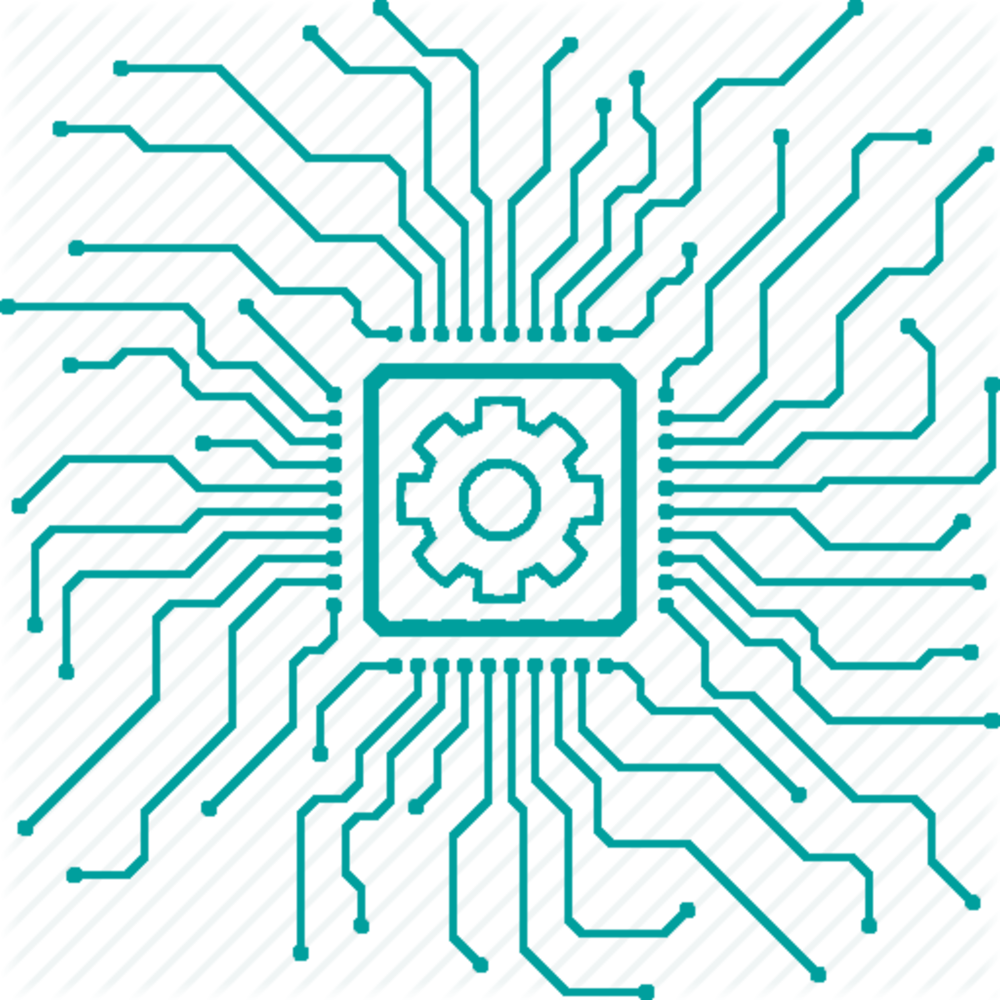
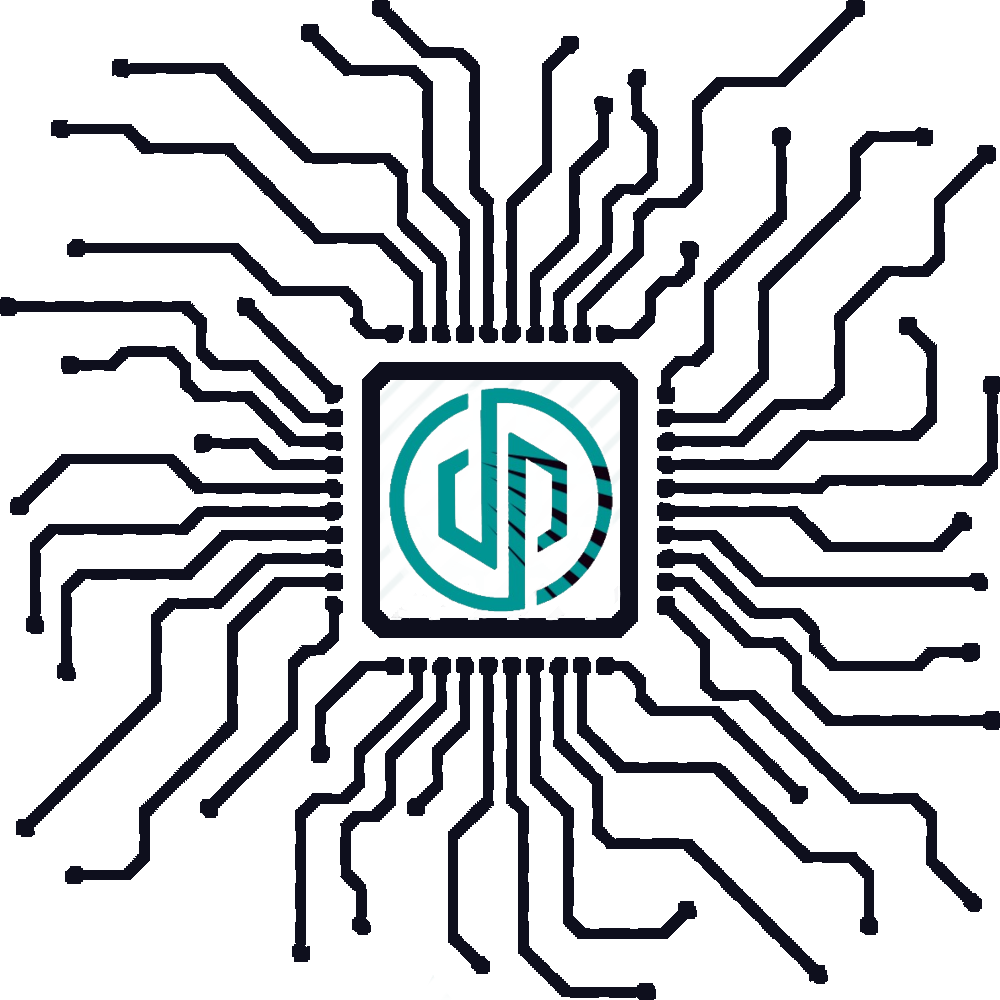
add contact and update home

diff --git a/src/home/Home.js b/src/home/Home.js
@@ -7,6 +7,8 @@ import { FontAwesomeIcon } from "@fortawesome/react-fontawesome";
 import { faArrowLeft } from "@fortawesome/free-solid-svg-icons";
 import NP from "../nosprojet/NP";
 
+import Contact from "../contact/contact";
+
 function Home() {
     const [page, setpage] = useState(0);
 
@@ -21,43 +23,55 @@ function Home() {
                 <>
                     <div>
                         <div>
-                            <NavBar go={custpage}></NavBar>
+                            <NavBar current={page} go={custpage}></NavBar>
                         </div>
                         <div className="introCentre">
                             <FirstContent
-                            next={custpage}
+                                next={custpage}
                             ></FirstContent>
                         </div>
                     </div>
                 </>
-            )
+            );
         case 1://calculator
             return (
                 <>
-                
+
                     <div>
                         <div>
-                            <NavBar go={custpage}></NavBar>
+                            <NavBar curent={page} go={custpage}></NavBar>
                         </div>
-                        <div ><FontAwesomeIcon icon={faArrowLeft} className="back-arrow dont-print" onClick={()=> custpage(0)} title="Home page"></FontAwesomeIcon></div>
+                        <div ><FontAwesomeIcon icon={faArrowLeft} className="back-arrow dont-print" onClick={() => custpage(0)} title="Home page"></FontAwesomeIcon></div>
                         <div className="body-calcul">
                             <Calculator ></Calculator>
                         </div>
                     </div>
                 </>
-            )
+            );
         case 2:
-            return(
+            return (
                 <div>
+                    <div>
+                        <NavBar go={custpage}></NavBar>
+                    </div>
+                    <div ><FontAwesomeIcon icon={faArrowLeft} className="back-arrow dont-print" onClick={() => custpage(0)} title="Home page"></FontAwesomeIcon></div>
+                    <div className="body-calcul">
+                        <NP></NP>
+                    </div>
+                </div>
+            );
+        case 3:
+            return (
                 <div>
-                    <NavBar go={custpage}></NavBar>
-                </div>
-                <div ><FontAwesomeIcon icon={faArrowLeft} className="back-arrow dont-print" onClick={()=> custpage(0)} title="Home page"></FontAwesomeIcon></div>
-                <div className="body-calcul">
-                    <NP></NP>
-                </div>
-            </div>
-            )
+                    <div>
+                        <NavBar curent={page} go={custpage}></NavBar>
+                    </div>
+                    <div ><FontAwesomeIcon icon={faArrowLeft} className="back-arrow dont-print" onClick={() => custpage(0)} title="Home page"></FontAwesomeIcon></div>
+                    <div className="body-calcul">
+                        <Contact></Contact>
+                    </div>
+                </div >
+            );
     }
 
 }

diff --git a/src/contact/contact.js b/src/contact/contact.js
@@ -1,0 +1,50 @@
+import * as React from 'react';
+import "./style.css"
+import { FontAwesomeIcon } from '@fortawesome/react-fontawesome';
+import { faPhone } from '@fortawesome/free-solid-svg-icons';
+import { faEnvelope, faMap } from '@fortawesome/free-regular-svg-icons';
+
+export default function BasicTextFields() {
+  return (
+    <>
+      <div style={{display:"flex",justifyContent:"center",flexWrap:"wrap",margin: "auto",marginTop:"5%"}}>
+        <div>
+          <form className='formcat'>
+            <div>
+              <div class="input-groups">
+                <div class="input-group">
+                  <input required type="text" class="input fit" />
+                  <label class="user-label">Nom</label>
+                </div>
+                <div class="input-group">
+                  <input required type="text" class="input fit" />
+                  <label class="user-label">Prenom</label>
+                </div>
+              </div>
+
+              <div class="input-group">
+                <input required type="text" class="input" />
+                <label class="user-label">Phone</label>
+              </div>
+              <div class="input-group">
+                <input required type="email" name="text" class="input" />
+                <label class="user-label">Email</label>
+              </div>
+              <div class="input-group">
+                <textarea required type="text" name="text" class="input" cols="25" rows="5"></textarea>
+                <label class="user-label">Message</label>
+              </div>
+            </div>
+            <input type="submit" value="Envoyer" className='btn' />
+          </form>
+        </div>
+        <div style={{ color: "#009997",marginLeft:"10%" }}>
+          <h2>Contactez-Nous</h2>
+          <p><FontAwesomeIcon icon={faPhone} style={{ marginRight: "10px" }} /><a href='tel:0761513522' style={{ color: "#fff" ,textDecoration:"none"}}>0761513522</a></p>
+          <p><FontAwesomeIcon icon={faEnvelope} style={{ marginRight: "10px" }} /><a href='mailto:CONTACT@DUP.MA' style={{ color: "#fff" ,textDecoration:"none"}}>CONTACT@DUP.MA</a></p>
+          <p><FontAwesomeIcon icon={faMap} style={{ marginRight: "10px" }} /><a href='https://goo.gl/maps/bKkhkCxefXHvTfgu8' style={{ color: "#fff" ,textDecoration:"none"}} target='blank'>N°18 AV ITTANE Z.I TASSILA DCHEIRA EL JIHADIA AGADIR</a></p>
+        </div>
+      </div>
+    </>
+  );
+}

diff --git a/src/home/nav/Navbar.js b/src/home/nav/Navbar.js
@@ -4,7 +4,7 @@ import "./NavBar.css";
 import MenuIcon from '@mui/icons-material/Menu';
 import { Link } from "react-router-dom";
 function NavBar(props) {
-    const {go}=props;
+    const {current,go}=props;
     const myFunction = () => {
         var x = document.getElementById("myTopnav");
         if (x.className === "topnav") {
@@ -19,12 +19,12 @@ function NavBar(props) {
                 <nav>
                     <div className="topnav" id="myTopnav">
                     <Link onClick={()=>go(0)} >
-                        <img src={logo} alt="dup logo" className="logo" />
+                       {current !== 0 ? <img src={logo} alt="dup logo" className="logo" />:""}
                     </Link>
-                        <Link  className="menu">Contact</Link>
-                        <Link onClick={()=>go(1)} className="menu">Calculateur</Link>
-                        <Link className="menu">A props</Link>
                         <Link onClick={()=>go(2)} className="menu">Nos projet</Link>
+                        <Link onClick={()=>go(3)} className="menu">Contact</Link>
+                        <Link onClick={()=>go(1)} className="menu">Calculateur</Link>
+                        <Link  className="menu">A props</Link>
                         <button className="icon" onClick={myFunction}>
                             <MenuIcon></MenuIcon>
                         </button>

diff --git a/src/contact/style.css b/src/contact/style.css
@@ -1,0 +1,61 @@
+.formcat{
+    width: 200px;
+    display: flex;
+    justify-content: center;
+    flex-wrap: wrap;
+    margin: auto;
+    margin-top: 2%;
+}
+.input-group {
+    position: relative;
+}
+.input-groups{
+    display: flex;
+
+}
+.fit{
+    width: 100px;
+}
+.input {
+    border: solid 1.5px #9e9e9e;
+    border-radius: 1rem;
+    background: none;
+    padding: 1rem;
+    font-size: 1rem;
+    color: #f5f5f5;
+    transition: border 150ms cubic-bezier(0.4, 0, 0.2, 1);
+    margin: 10px;
+}
+
+.user-label {
+    position: absolute;
+    left: 20px;
+    color: #e8e8e8;
+    pointer-events: none;
+    transform: translateY(1rem);
+    transition: 150ms cubic-bezier(0.4, 0, 0.2, 1);
+}
+.input:default~label{
+    position: absolute;
+    left: 15px;
+    color: #e8e8e8;
+    pointer-events: none;
+    transform: translateY(1rem);
+    transition: 150ms cubic-bezier(0.4, 0, 0.2, 1);
+}
+
+.input:focus,
+.input:valid {
+    outline: none;
+    border: 1.5px solid #ffffff;
+}
+
+.input:focus~label,
+.input:valid~label {
+    transform: translateY(-10%) scale(0.8);
+    transform: translateX(10%) scale(0.8);
+    background-color: #ffffff;
+    border-radius: 8px;
+    padding: 0 .2em;
+    color: #000000;
+}

diff --git a/src/home/content/intro.css b/src/home/content/intro.css
@@ -2,6 +2,30 @@
     padding-right: 10px;
     width: 50%;
     z-index: 3;
+    animation-name: image;
+    animation-duration: 500ms;
+    animation-timing-function: ease-in-out;
+    animation-iteration-count: infinite;
+}
+
+@keyframes image{
+  0%{
+    filter: drop-shadow(0 0 5px #005661);
+  }
+  50%{
+    filter: drop-shadow(0 0 8px #026583);
+  }
+  100%{
+    filter: drop-shadow(0 0 5px #005974);
+  }
+}
+
+.introCentre img:hover {
+  padding-right: 10px;
+  width: 50%;
+  z-index: 3;
+  animation-name: none;
+  filter: drop-shadow(0 0 5px #03a59d);
 }
 
 .introBtn {
